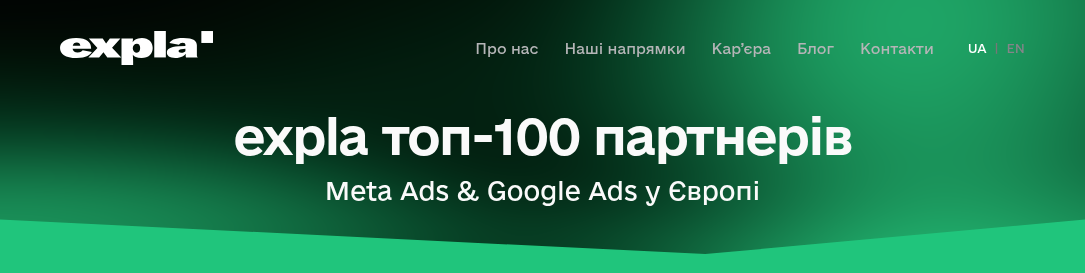
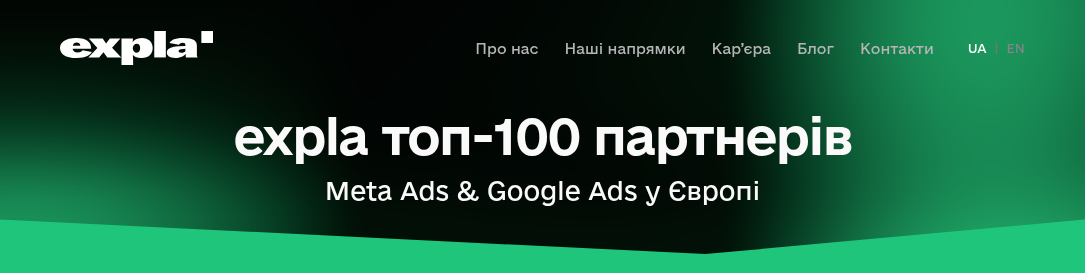
Keep hero center black with green waves at the sides

diff --git a/src/components/HeroBackground.jsx b/src/components/HeroBackground.jsx
@@ -72,7 +72,9 @@ export default function HeroBackground() {
             float leftGlow=exp(-dot((flowUv-vec2(.08,.12))/vec2(.29,.40),
               (flowUv-vec2(.08,.12))/vec2(.29,.40)));
             float field=.48*rightWave+.33*lowerWave+.25*upperGlow+.16*leftGlow;
-            float readability=1.0-.78*exp(-pow((uvPosition.x-.48)/.25,2.0));
+            // Keep the text area nearly black throughout cursor distortion.
+            float edgeMask=smoothstep(.16,.48,abs(uvPosition.x-.5));
+            float readability=mix(.018,1.0,edgeMask);
             float hover=1.0+activity*1.1*exp(-radius*2.0);
             float intensity=clamp(field*readability*hover,0.0,.92);
             gl_FragColor=vec4(mix(vec3(.0004,.0008,.0006),brandColor,intensity),1.0);
